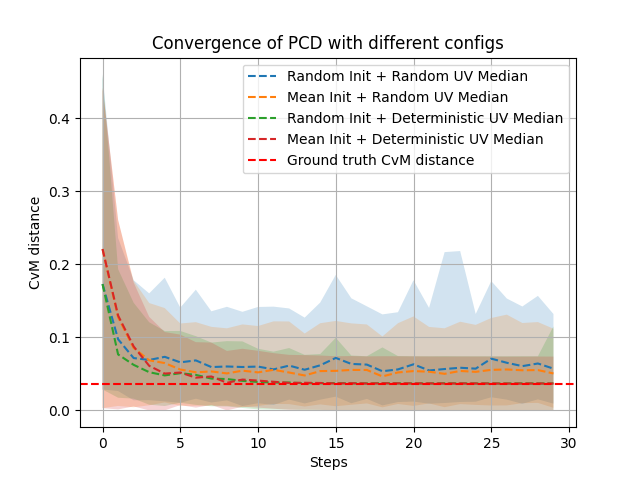
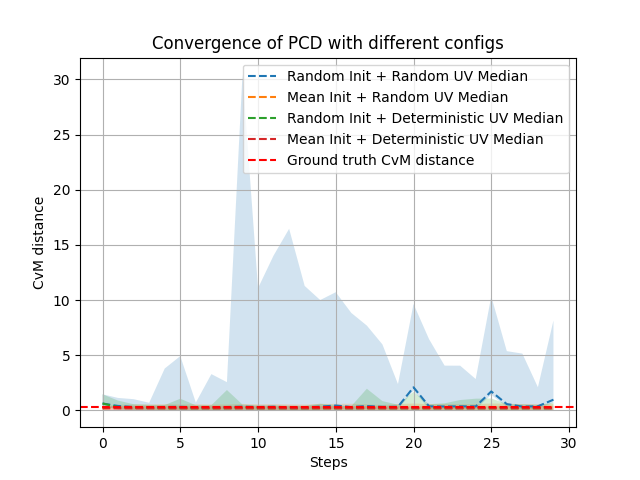
critical bug

diff --git a/benchmarking/compare_configs.py b/benchmarking/compare_configs.py
@@ -15,6 +15,7 @@ from pcd_sampling_py.sampling_utils import sot_sphere
 UNIT_VECTORS = 50
 STEPS = 30
 SEEDS = 40
+SAMPLES = 2
 
 
 def plot_convergence(all_distances: list, gt: float):
@@ -95,7 +96,7 @@ def calc_cvms_for_seed(
     for i in range(STEPS):
 
         sampling_config = PCDSamplerConfig(
-            number_samples=5,
+            number_samples=SAMPLES,
             dim=2,
             number_unit_vectors=UNIT_VECTORS,
             steps=i,
@@ -129,7 +130,7 @@ def compare_configs():
     ).double()
 
     sampling_config = PCDSamplerConfig(
-        number_samples=5,
+        number_samples=SAMPLES,
         dim=2,
         number_unit_vectors=10000,
         steps=200,
@@ -157,6 +158,9 @@ def compare_configs():
     mean_init_det_uv = []
 
     for i in range(SEEDS):
+        print(f"Running seed {i+1}/{SEEDS}")
+        
+        print("Config: Random Init + Random UV")
         distances = calc_cvms_for_seed(
             seed=i,
             cvm_unit_vectors=cvm_unit_vectors,
@@ -168,6 +172,7 @@ def compare_configs():
         )
         rand_init_rand_uv.append(distances)
 
+        print("Config: Mean Init + Random UV")
         distances = calc_cvms_for_seed(
             seed=i,
             cvm_unit_vectors=cvm_unit_vectors,
@@ -179,6 +184,7 @@ def compare_configs():
         )
         mean_init_rand_uv.append(distances)
 
+        print("Config: Random Init + Deterministic UV")
         distances = calc_cvms_for_seed(
             seed=i,
             cvm_unit_vectors=cvm_unit_vectors,
@@ -190,6 +196,7 @@ def compare_configs():
         )
         rand_init_det_uv.append(distances)
 
+        print("Config: Mean Init + Deterministic UV")
         distances = calc_cvms_for_seed(
             seed=i,
             cvm_unit_vectors=cvm_unit_vectors,

diff --git a/src/pcd_sampling_py/sampler.py b/src/pcd_sampling_py/sampler.py
@@ -226,14 +226,12 @@ class PCDSampler:
             assert n_means > 0, "means must contain at least one component"
 
             # random order of means
-            perm = torch.randperm(n_means, device=means.device)
-
-            # repeat the permutation enough times and cut to desired length
-            reps = (n_samples + n_means - 1) // n_means   # ceil(n_samples / n_means)
-            indices = perm.repeat(reps)[:n_samples]
-
+            weights = torch.ones(n_means, device=means.device)
+            indices = torch.multinomial(weights, n_samples, replacement=(n_samples > n_means))
             samples = means[indices]
+            
             return samples
+
 
         elif self.initial_sampling_method == "ut":
             # We use the unscented transform to get the initial samples.

diff --git a/examples/example.py b/examples/example.py
@@ -46,13 +46,13 @@ def sample():
         print(f"Sampling step {i}")
         start = time.time()
         sampling_config = PCDSamplerConfig(
-            number_samples=5,
+            number_samples=100,
             dim=2,
             number_unit_vectors=2000,
             steps=i,
             # threshold=1e-6,
             sorting=True,
-            initial_sampling_method="random",
+            initial_sampling_method="mean",
             unit_vectors_method="random",
         )
         sampler = PCDSampler(sampling_config)